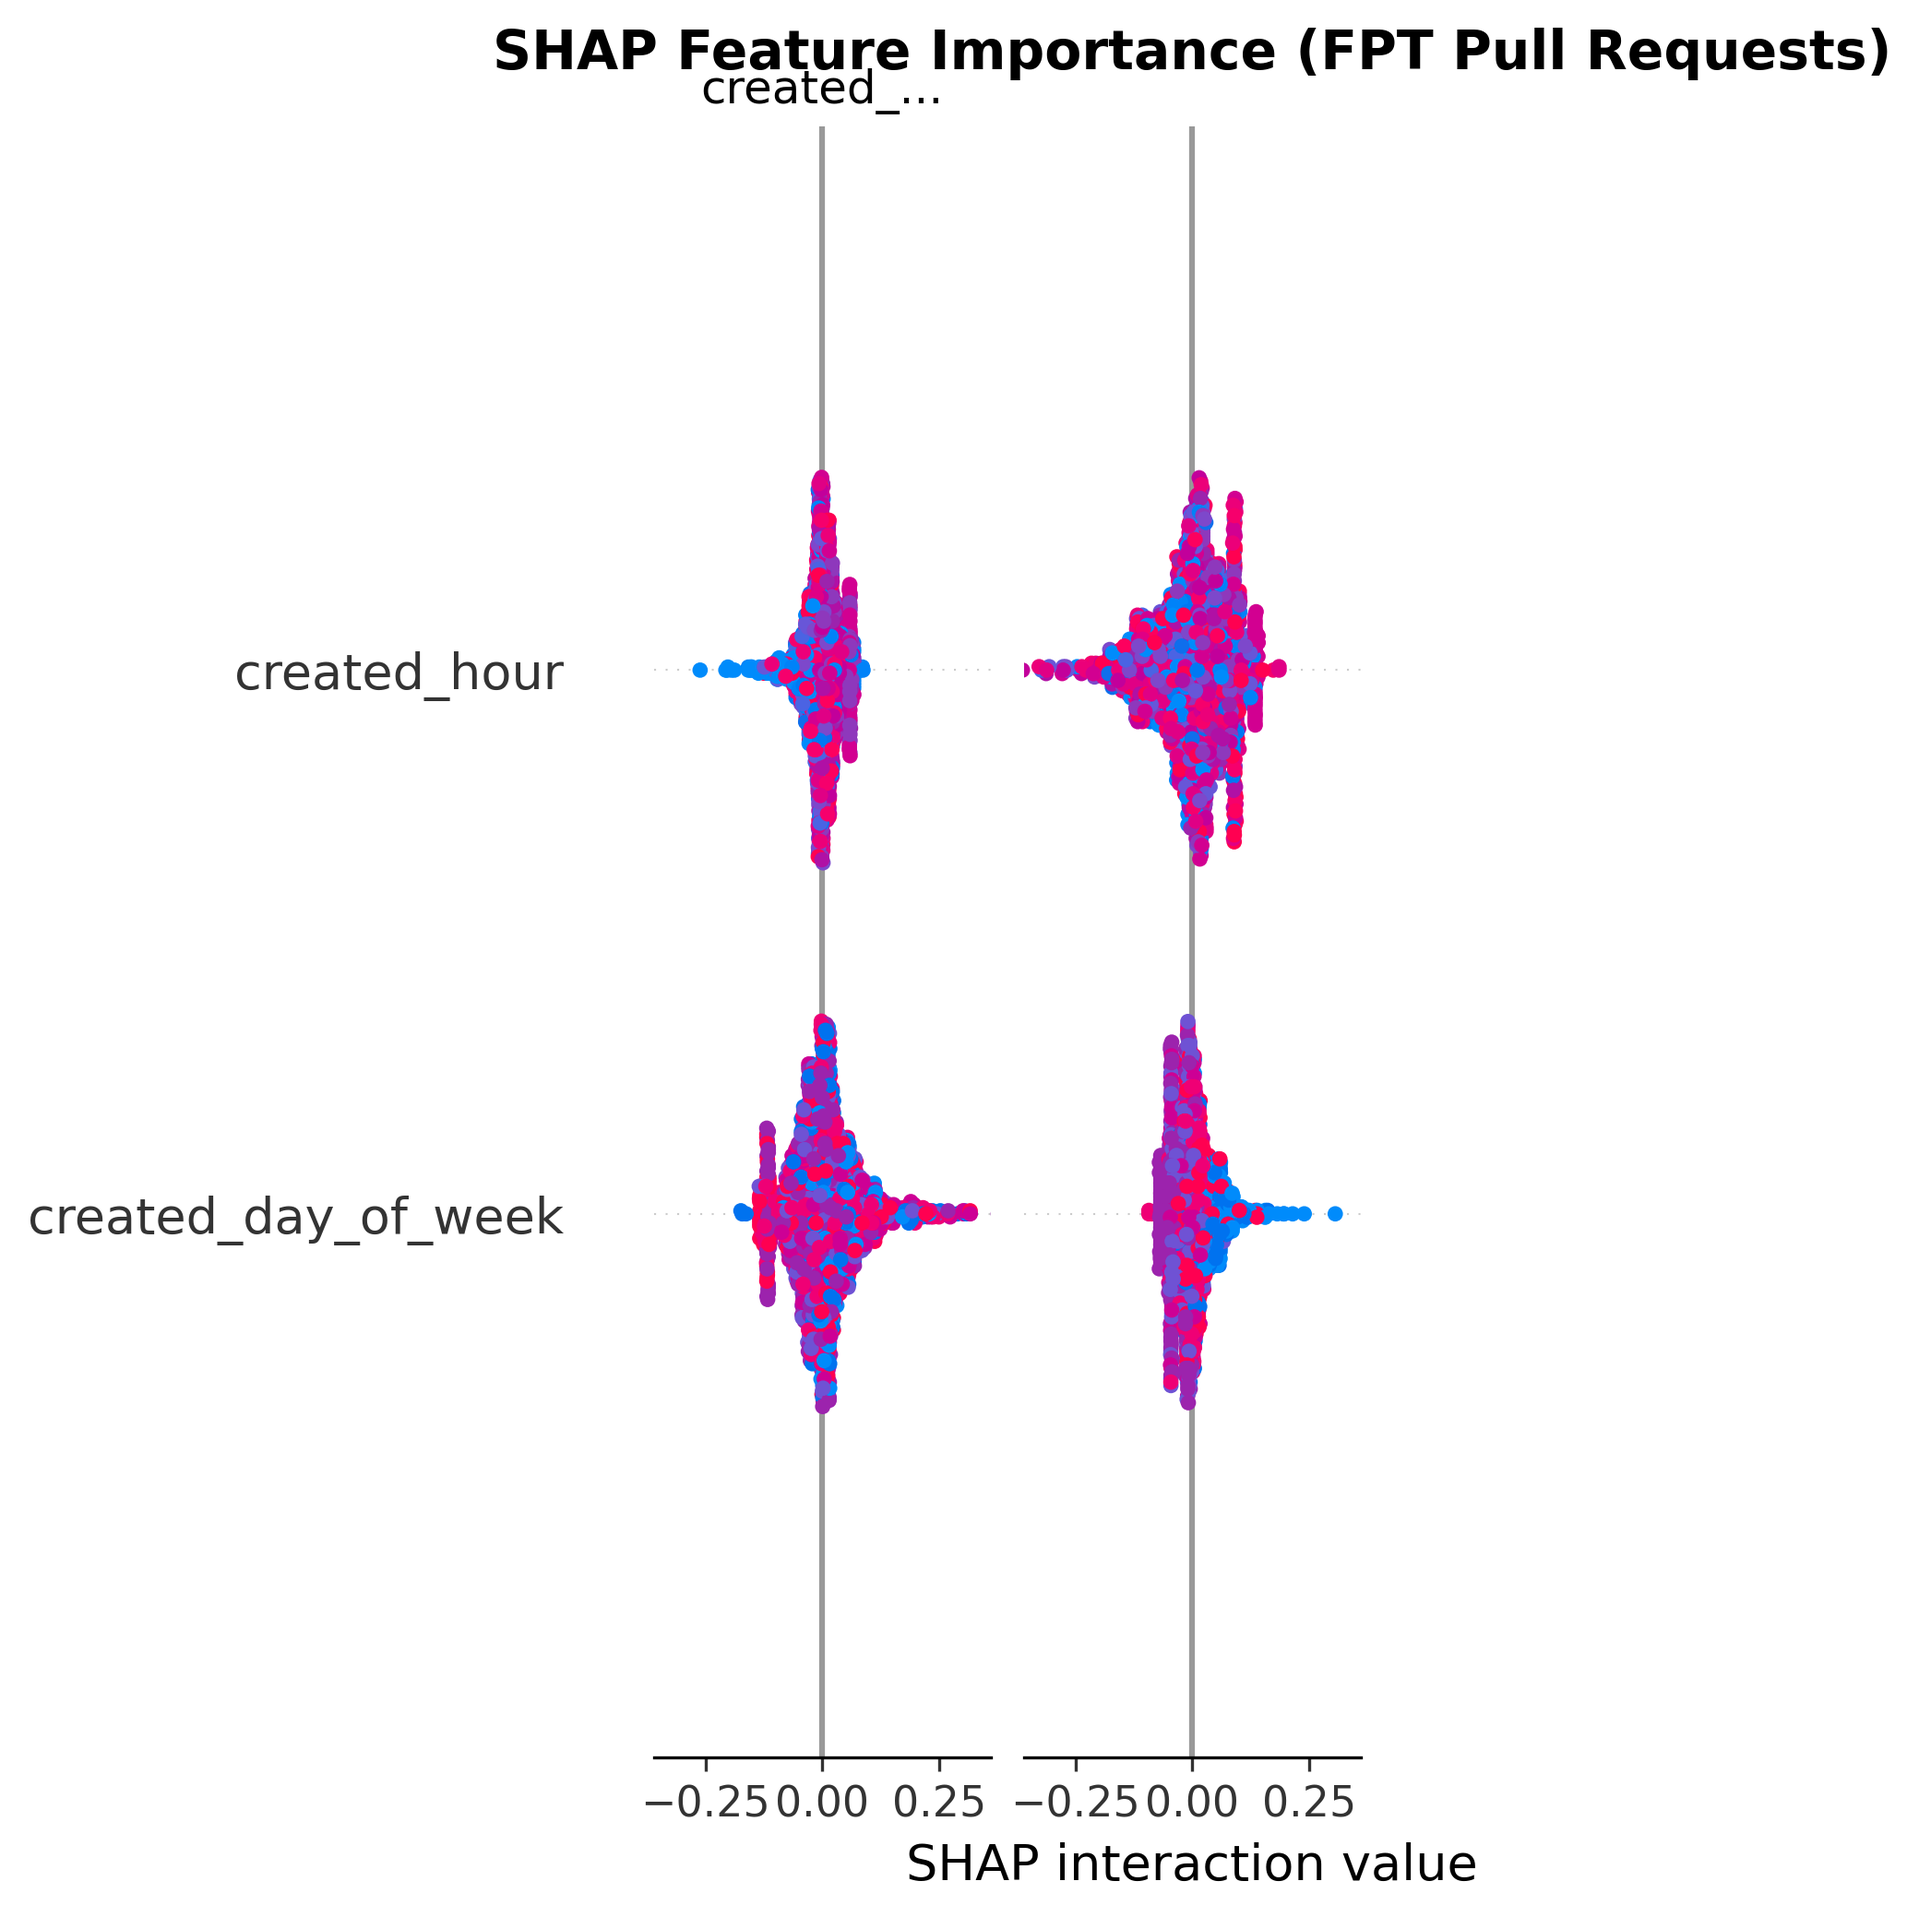
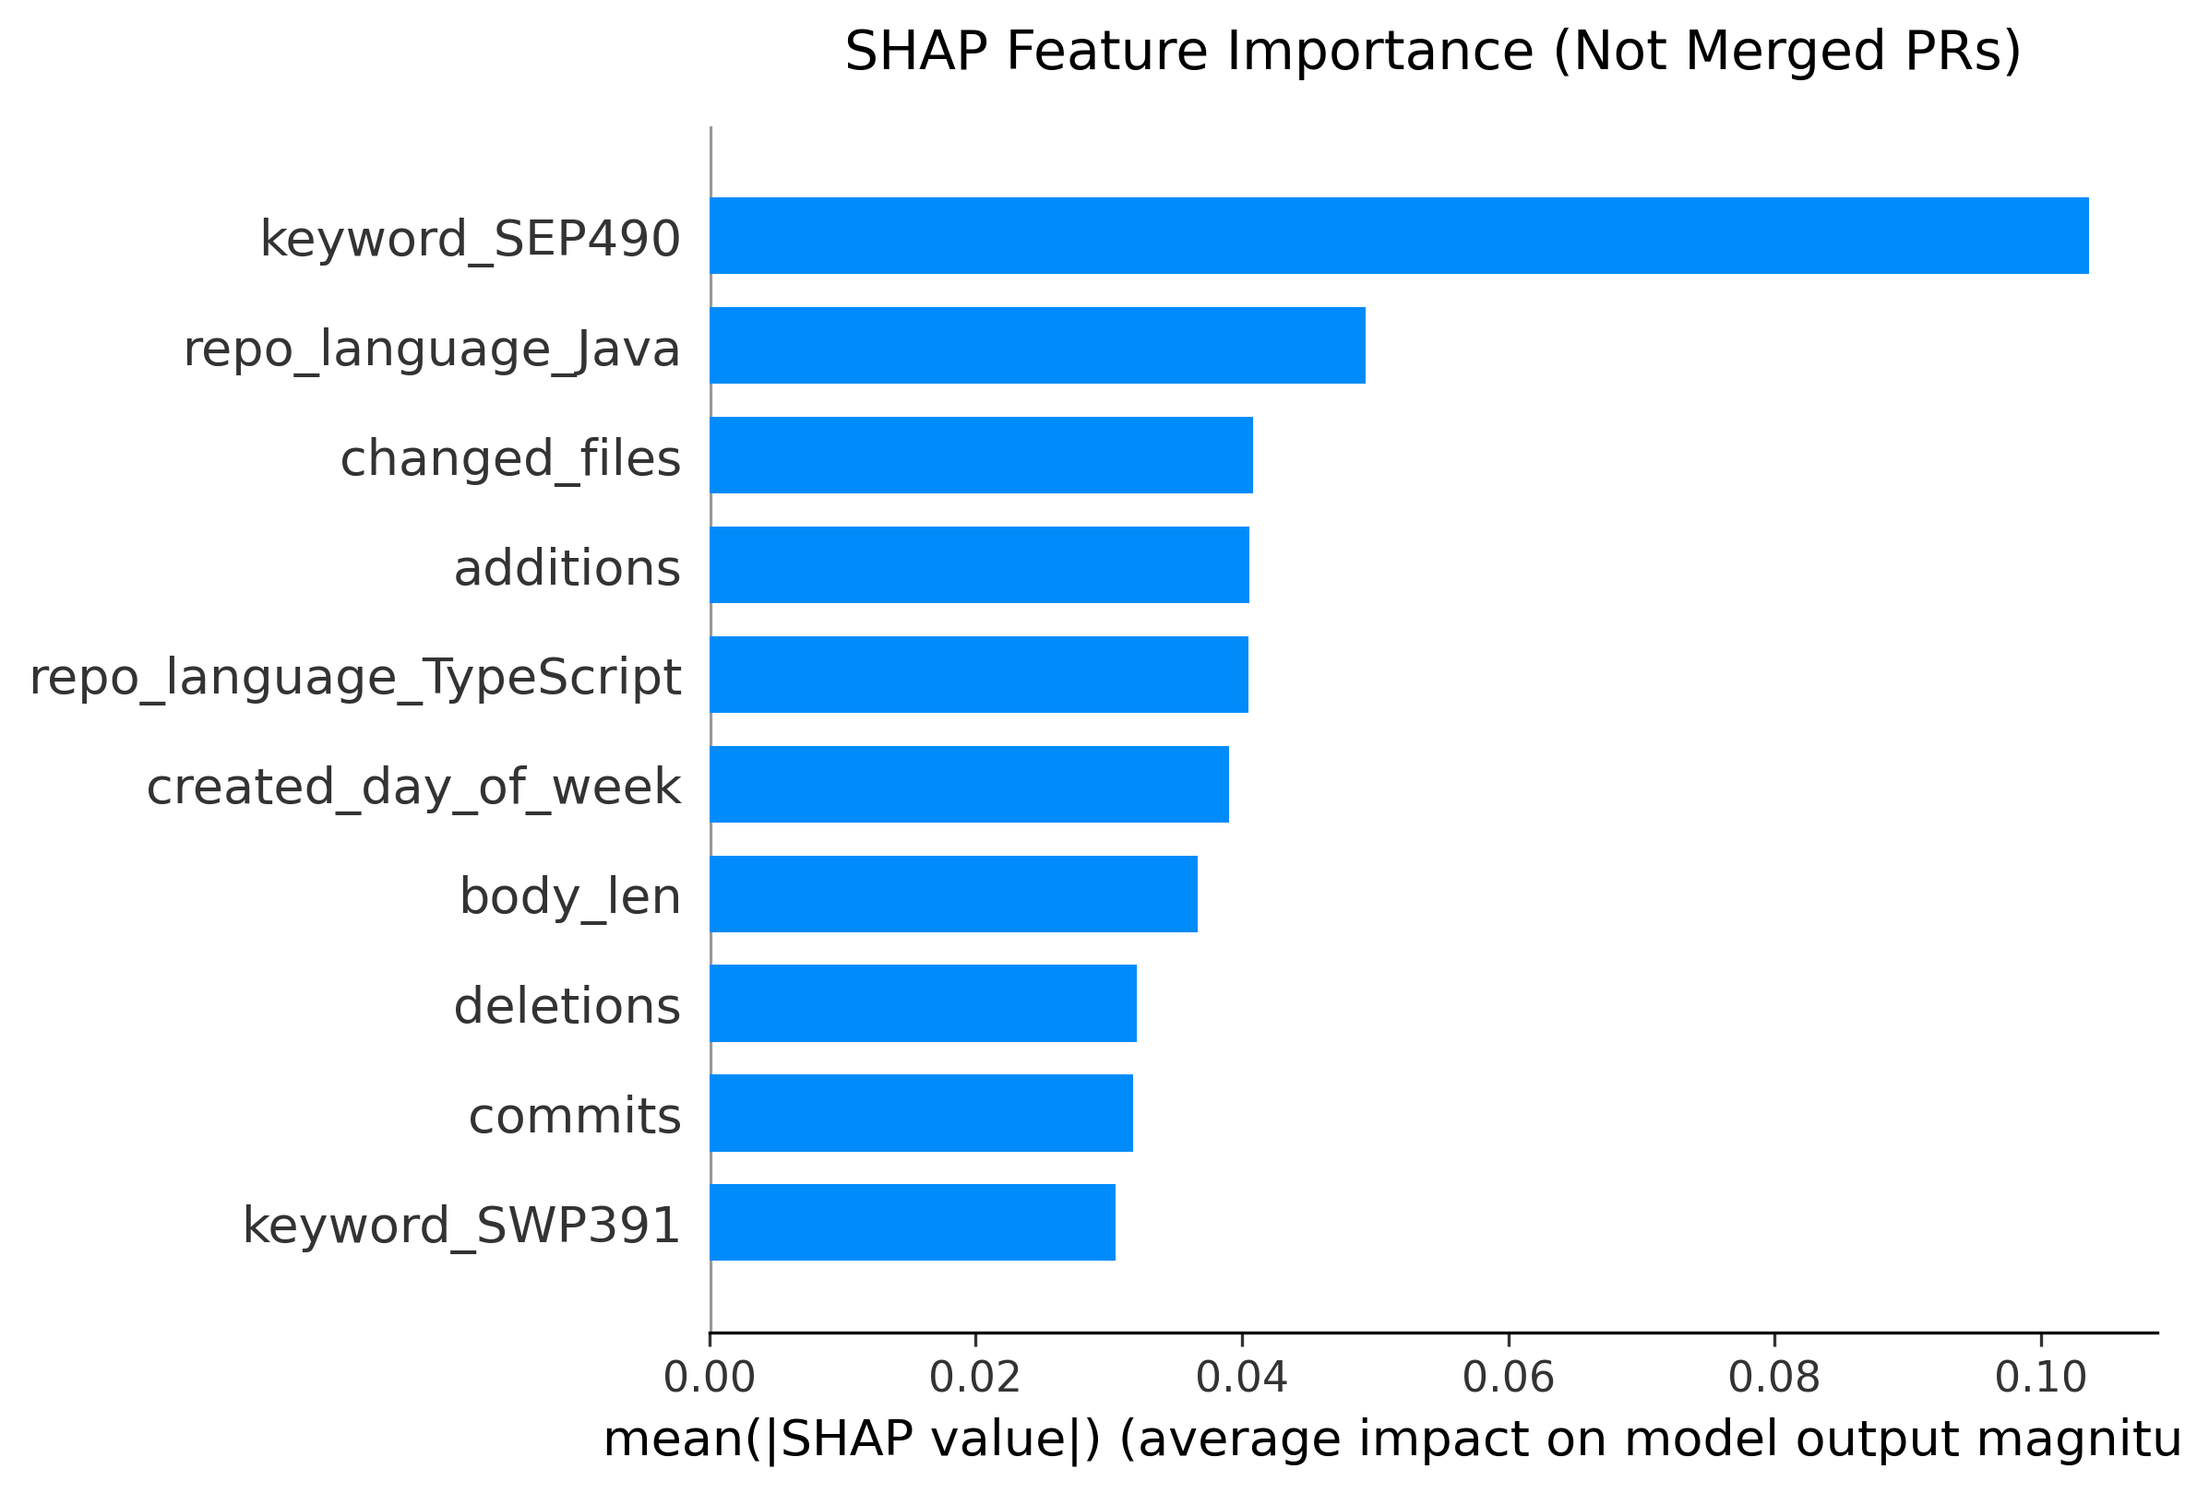
fix(shap): generate horizontal bar chart for Class 0 (Not Merged PRs) SHAP feature importance

diff --git a/scripts/analysis/generate_shap.py b/scripts/analysis/generate_shap.py
@@ -5,7 +5,6 @@ import numpy as np
 import matplotlib
 matplotlib.use('Agg')
 import matplotlib.pyplot as plt
-from sklearn.model_selection import train_test_split
 from sklearn.ensemble import RandomForestClassifier
 from imblearn.over_sampling import SMOTE
 import shap
@@ -19,7 +18,7 @@ os.makedirs(FIGURES_DIR, exist_ok=True)
 
 def generate_shap_plot():
     print("=" * 60)
-    print("🔮 BẮT ĐẦU TÍNH TOÁN VÀ XUẤT SHAP FEATURE IMPORTANCE...")
+    print("🔮 BẮT ĐẦU TÍNH TOÁN VÀ XUẤT SHAP FEATURE IMPORTANCE (NOT MERGED PRS)...")
     print("=" * 60)
 
     if not os.path.exists(INPUT_PATH):
@@ -27,11 +26,16 @@ def generate_shap_plot():
         return
 
     df = pd.read_csv(INPUT_PATH)
+    
+    # Preprocessing & One-Hot Encoding
     df_processed = pd.get_dummies(df, columns=['repo_language', 'keyword'], drop_first=False)
     df_fpt = df_processed[df_processed['is_fpt'] == 1]
     
-    drop_cols = ['pr_id', 'repo_name', 'pr_number', 'title', 'body_len', 'user_login', 'user_type', 
-                 'created_datetime', 'closed_datetime', 'merged_datetime', 'duration_minutes', 'duration_hours', 'is_merged']
+    # Exclude identifiers and datetime target/duration columns, keeping body_len, created_hour, additions, deletions, etc.
+    drop_cols = [
+        'pr_id', 'repo_name', 'pr_number', 'title', 'user_login', 'user_type', 
+        'created_datetime', 'closed_datetime', 'merged_datetime', 'duration_minutes', 'duration_hours', 'is_merged', 'is_fpt'
+    ]
     
     X = df_fpt.drop(columns=[c for c in drop_cols if c in df_fpt.columns])
     y = df_fpt['is_merged']
@@ -47,17 +51,31 @@ def generate_shap_plot():
     explainer = shap.TreeExplainer(rf_model)
     shap_values = explainer.shap_values(X_resampled)
     
-    plt.figure(figsize=(10, 6))
+    plt.figure(figsize=(9, 6))
+    
+    # Handle list vs ndarray shap_values format
     if isinstance(shap_values, list):
-        shap.summary_plot(shap_values[1], X_resampled, show=False)
+        target_shap = shap_values[0] # Class 0: Not Merged PRs
+    elif isinstance(shap_values, np.ndarray) and len(shap_values.shape) == 3:
+        target_shap = shap_values[:, :, 0] # Class 0
     else:
-        shap.summary_plot(shap_values, X_resampled, show=False)
+        target_shap = shap_values
         
-    plt.title("SHAP Feature Importance (FPT Pull Requests)", fontsize=14, fontweight='bold', pad=15)
+    shap.summary_plot(
+        target_shap, 
+        X_resampled, 
+        plot_type='bar', 
+        show=False, 
+        max_display=10
+    )
+    
+    plt.title("SHAP Feature Importance (Not Merged PRs)", fontsize=14, pad=15)
+    plt.tight_layout()
+    
     output_path = os.path.join(FIGURES_DIR, "shap_summary.png")
     plt.savefig(output_path, dpi=300, bbox_inches='tight')
     plt.close()
-    print(f"✅ Đã xuất biểu đồ SHAP vào: {output_path}")
+    print(f"✅ Đã xuất biểu đồ SHAP chuẩn khớp báo cáo vào: {output_path}")
     print("=" * 60)
 
 if __name__ == "__main__":
